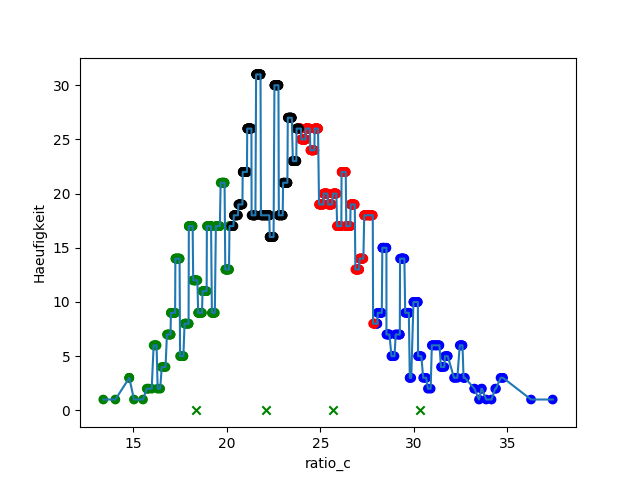
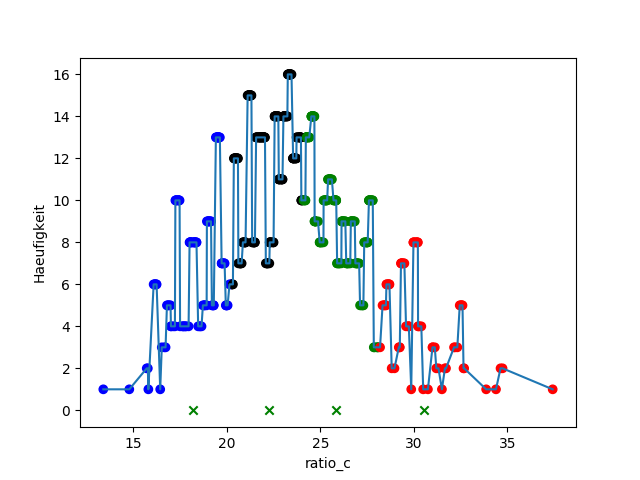
more plots

diff --git a/fasta.py b/fasta.py
@@ -8,19 +8,21 @@ from sklearn.cluster import KMeans
 import matplotlib.pyplot as plt
 import pandas as pd
 import seaborn as sns
+from pybedtools import BedTool
 
 def load_data():
    # https://lncipedia.org/download
-   data_dict = {'length': [], 'ratio_g': [], 'ratio_t': [], 'ratio_c': [], 'ratio_a': []}
-   data = SeqIO.parse("data/lncipedia_5_2.fasta", "fasta")
-   for i, record in enumerate(data):
-      #print("Id: %s" % record.id) 
-      #print("Name: %s" % record.name) 
-      #print("Description: %s" % record.description) 
-      #print("Annotations: %s" % record.annotations) 
-      #print("Sequence Alphabet: %s" % record.seq.alphabet)record.seq
+   data_dict = {'length': [], 'ratio_g': [], 'ratio_t': [], 'ratio_c': [], 'ratio_a': [], 'number_exons': []}
+   fasta_data = SeqIO.parse("data/lncipedia_5_2.fasta", "fasta")
+   bed_raw_data = BedTool('data/lncipedia.bed')
+   bed_data = {}
+   for record in bed_raw_data:
+      bed_data[record.name] = int(record.fields[9])
+
+   for i, record in enumerate(fasta_data):
       length = len(record.seq)
       data_dict['length'].append(length)
+      data_dict['number_exons'].append(bed_data[record.name])
 
       count_g = 0
       count_a = 0
@@ -42,13 +44,13 @@ def load_data():
       data_dict['ratio_c'].append(count_c/length*100)
       data_dict['ratio_a'].append(count_a/length*100)
 
-      if i == 1000:
+      if i == 500:
          break
    df = pd.DataFrame.from_dict(data_dict)
    return df
 
 def fit_dbscan(df):
-   db = DBSCAN(eps=0.7, min_samples=5).fit(df)
+   db = DBSCAN(eps=0.2, min_samples=5).fit(df)
    core_samples_mask = np.zeros_like(db.labels_, dtype=bool)
    core_samples_mask[db.core_sample_indices_] = True
    labels = db.labels_
@@ -166,9 +168,10 @@ def pair(df, features):
 
    fig = pp.fig 
    fig.subplots_adjust(top=0.93, wspace=0.3)
-   pp.savefig('pair_plot.png')
+   pp.savefig('output/pair_plot.png')
 
 df = load_data()
-features = ['length', 'ratio_g', 'ratio_a', 'ratio_c', 'ratio_t']
+features = ['length', 'ratio_g', 'ratio_a', 'ratio_c', 'ratio_t', 'number_exons']
 run_all_clustering(df, features)
+#run_dbscan(df[['length', 'ratio_g']], ['length', 'ratio_g'])
 pair(df, features)
